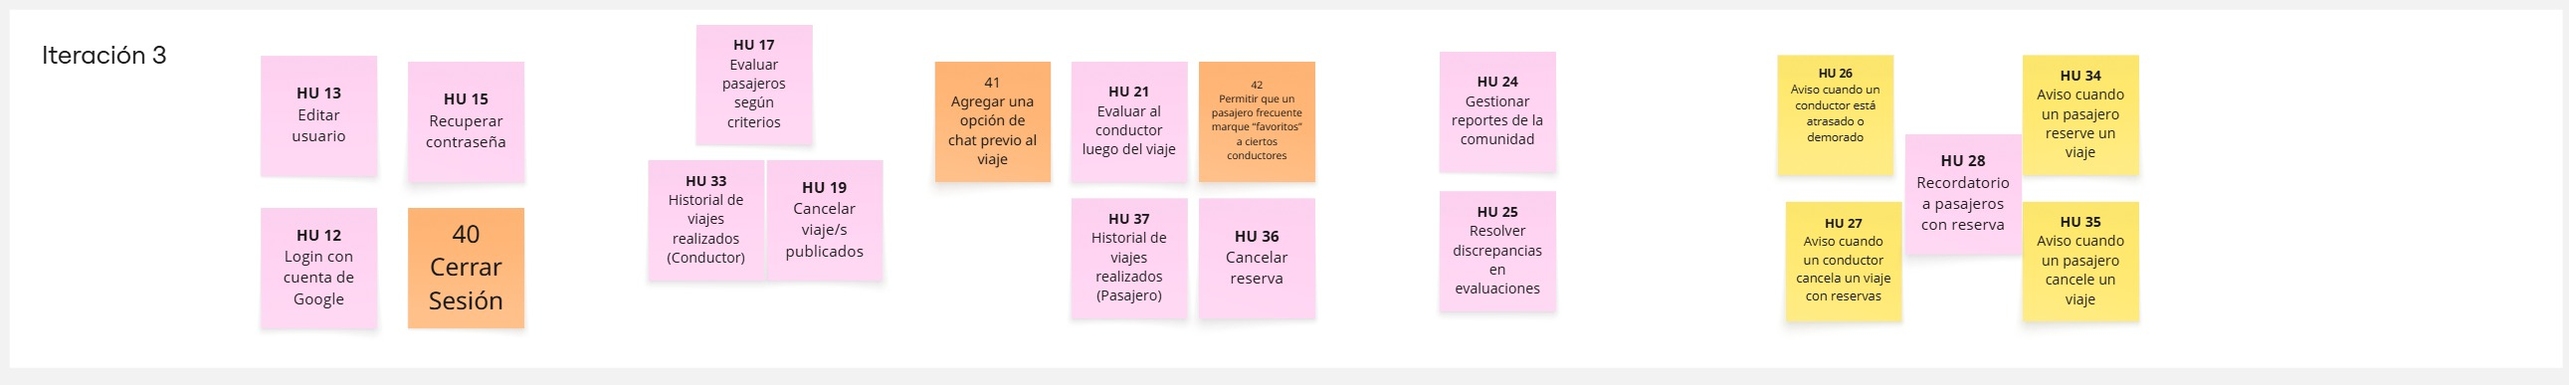
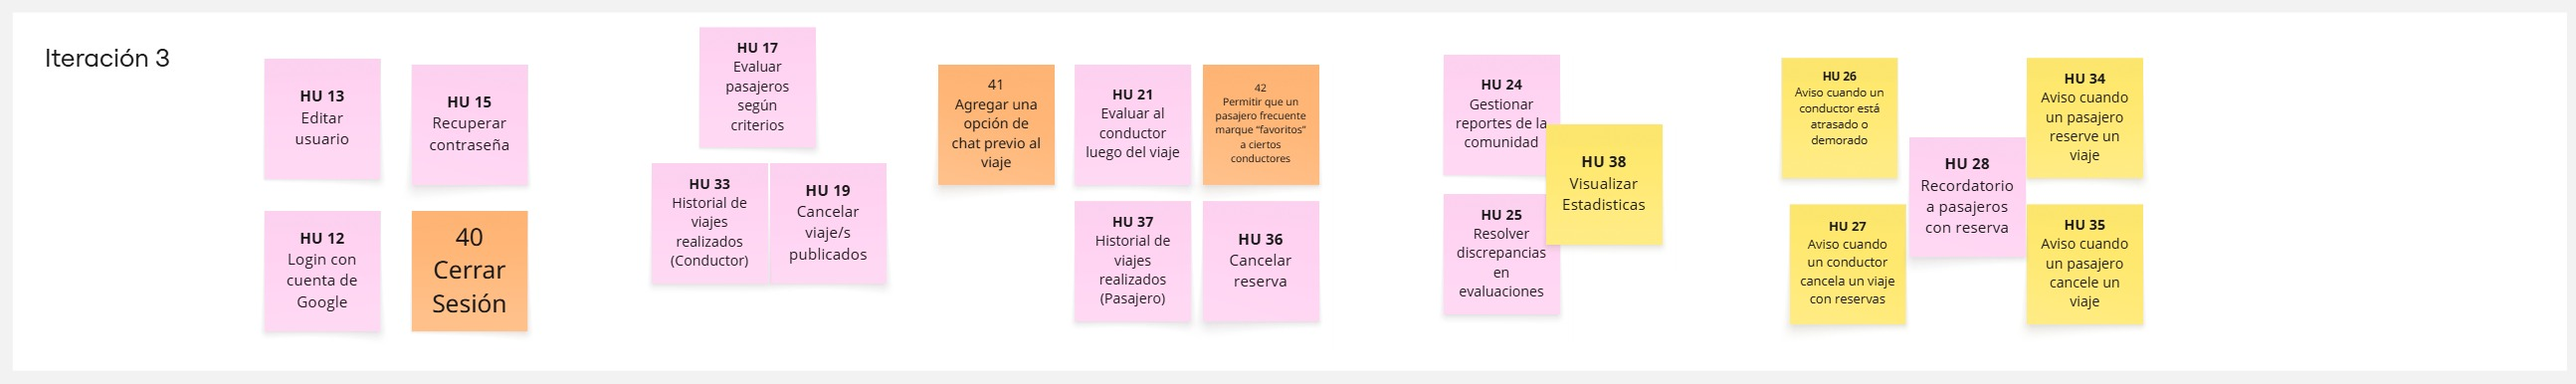
Estadisticas

diff --git a/iteración-3/README.md b/iteración-3/README.md
@@ -260,6 +260,21 @@ Repartimos las tareas de manera **equitativa**, asegurando que cada integrante c
     - Se debe poder ver la siguiente información básica del viaje: origen, destino, fecha, horario y conductor.
     - Debe existir una opción para ver más detalles del viaje (por ejemplo: vehículo, comentarios previamente hechos, costo pagado, cantidad de asientos reservados).
 
+- **Historia de usuario 38**: Visualizar Estadisticas
+  - **Como**: Administrador del Sistema
+  - **Quiero**: Visualizar estadísticas sobre el uso del sistema de carpool universitario
+  - **Para**: Analizar la actividad de la aplicación, comprender patrones de uso y conocer el impacto positivo del servicio
+  - **Criterios de aceptación**:
+    - Se debe mostrar un panel de estadísticas con al menos seis gráficos.
+    - Cada gráfico debe representar un indicador distinto:
+          - Average Ride Occupancy Rate
+          - Rides by Zone or Campus
+          - Peak Ride Hours
+          - User Role Distribution (Drivers vs Passengers)
+          - Average Satisfaction Level
+          - Shared Kilometers / Estimated CO₂ Savings
+    - Las métricas deben mostrarse con colores coherentes con la identidad visual de la app.
+
 - **Historia de usuario 40**: Cerrar Sesión
   - **Como**: Como usuario loggeado (Pasajero, Conductor o Admin)
   - **Quiero**: Cerrar la sesión de mi cuenta en la aplicación 
@@ -343,6 +358,9 @@ A continuación se redactan las estimaciones puestas por el equipo correspondien
 - **Historia de usuario 35**: Aviso cuando un pasajero cancele un viaje
   - 2 SP
 
+- **Historia de usuario 38**: Visualizar Estadisticas
+  - 2 SP
+
 - **Historia de usuario 40**: Cerrar Sesión
   - 1 SP
 - **Historia de usuario 41**: Chat previo al viaje
@@ -364,21 +382,21 @@ A continuación se redactan las estimaciones puestas por el equipo correspondien
 
 ### Minuta 3: Daily 1 (31/10/2025)
 
-El viernes 31 de octubre, realizamos la primera daily de esta iteración 3, con el objetivo de coordinar el trabajo del equipo y revisar el avance, presentamos avances en cuanto a la creación de pantallas en la web de **Framer**, de las cuales llegamos a completar 10 de las 19 propuestas para esta sprint, 10 de las 19 historias de usuarios. Continuamos con el objetivo de crear las pantallas faltantes además de las Historias de Usuario pendientes.
+El viernes 31 de octubre, realizamos la primera daily de esta iteración 3, con el objetivo de coordinar el trabajo del equipo y revisar el avance, presentamos avances en cuanto a la creación de pantallas en la web de **Framer**, de las cuales llegamos a completar 10 de las 20 propuestas para esta sprint, 10 de las 20 historias de usuarios. Continuamos con el objetivo de crear las pantallas faltantes además de las Historias de Usuario pendientes.
 El equipo se encuentra preparando una buena versión la cual será mostrada como prototipo a usuarios para validarlo.
 
 ![Daily](Reuniones/Daily1.jpeg "D")
 
 ### Minuta 4: Daily 2 (03/11/2025)
 
-El lunes 03 de noviembre, realizamos la segunda daily de esta iteración 3, con el objetivo de continuar con el trabajo del equipo y revisar el avance, presentamos avances en cuanto a la creación de pantallas en la web de **Framer**, de las cuales llegamos solo nos queda por terminar 5 para esta sprint, 14 de las 19 historias de usuarios. Continuamos con el objetivo de crear las pantallas faltantes además de las Historias de Usuario pendientes.
+El lunes 03 de noviembre, realizamos la segunda daily de esta iteración 3, con el objetivo de continuar con el trabajo del equipo y revisar el avance, presentamos avances en cuanto a la creación de pantallas en la web de **Framer**, de las cuales llegamos solo nos queda por terminar 5 para esta sprint, 14 de las 20 historias de usuarios. Continuamos con el objetivo de crear las pantallas faltantes además de las Historias de Usuario pendientes.
 El equipo tiene una versión lo suficientemente estable la cual será mostrada como prototipo a usuarios para validarlo.
 
 ![Daily](Reuniones/Daily2.jpeg "D")
 
 ### Minuta 5: Daily 3 (05/11/2025)
 
-El lunes 05 de noviembre, realizamos la última daily de esta iteración 3, con el objetivo de redondear con el trabajo del equipo y revisar el avance, presentamos avances en cuanto a la creación de pantallas en la web de **Framer**, de las cuales llegamos solo logramos completar todas las propuestas para esta sprint, 19 de las 19 historias de usuarios. 
+El lunes 05 de noviembre, realizamos la última daily de esta iteración 3, con el objetivo de redondear con el trabajo del equipo y revisar el avance, presentamos avances en cuanto a la creación de pantallas en la web de **Framer**, de las cuales llegamos solo logramos completar todas las propuestas para esta sprint, 20 de las 20 historias de usuarios. 
 El equipo ya realizó las validaciones necesarias con usuarios las cuales se estarán compartiendo en la reunión que tendremos de la Review.
 
 ![Daily](Reuniones/Daily3.jpeg "D")
@@ -510,6 +528,32 @@ Al momento de dar de baja al usuario, se valida que el mismo se este dando de ba
 Esta pantalla permite al pasajero revisar los viajes en los que ha participado. El título "Recent Trips” aparece en la parte superior, seguido por un listado de viajes ordenados desde el más reciente hacia atrás. Cada tarjeta incluye la información principal: conductor, ruta, fecha y horario del viaje. Si el pasajero selecciona un viaje, accede a un detalle donde puede ver información ampliada del conductor, el vehículo, otros pasajeros que compartieron el viaje y la opción de dejar una calificación si aún no lo ha hecho.
 
 ![user](Pantallas/HistorialPasajero.png "user")
+
+### Visualizar Estadisticas HU 38
+
+Esta pantalla es más visual donde denotamos algunas estadisticas de uso en la aplicación de las cuales destacamos:
+
+- #### Tasa de ocupación promedio por viaje
+        Mide el promedio de pasajeros por vehículo respecto a la capacidad total, muestra qué tan bien se está aprovechando el sistema de carpool.
+
+- #### Distribución de viajes por zonas o campus
+        Mide el porcentaje de viajes iniciados o finalizados en cada zona (por ejemplo: Pocitos, Centro, Carrasco, etc.), permite identificar las zonas con mayor demanda y ajustar puntos de encuentro o incentivos.
+
+- #### Horarios pico de viajes
+        Mide la cantidad de viajes iniciados por franja horaria, permite gestionar la disponibilidad de conductores en horas críticas (ingreso y salida de clases).
+
+- #### Relación entre rol de usuario (conductor/pasajero)
+        Mide la proporción de usuarios que actúan como conductores vs. pasajeros, equilibra la comunidad y muestra si faltan más conductores o pasajeros.
+
+- #### Nivel promedio de satisfacción
+        Mide la calificación promedio de los viajes (por estrellas o puntaje 1–5), mide la calidad del servicio y la experiencia del usuario.
+
+- #### Kilómetros compartidos / ahorro estimado de CO₂
+        Mide el total de kilómetros recorridos en carpool y reducción de emisiones estimada respecto a viajes individuales, muestra el impacto ambiental positivo del sistema, ideal para reportes institucionales.
+        
+<p style="text-align: center;">
+  <img src="Pantallas/Estadisticas.PNG" alt="Viajes activos pasajero" height="520">
+</p>
 
 ### Cerrar Sesión HU 40
 
